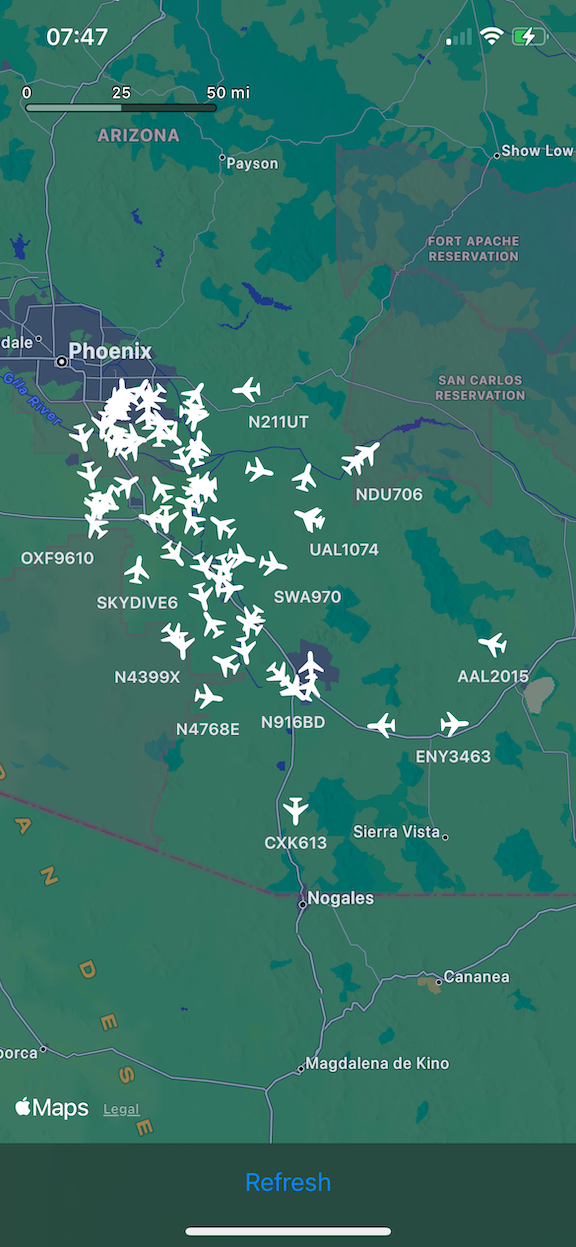
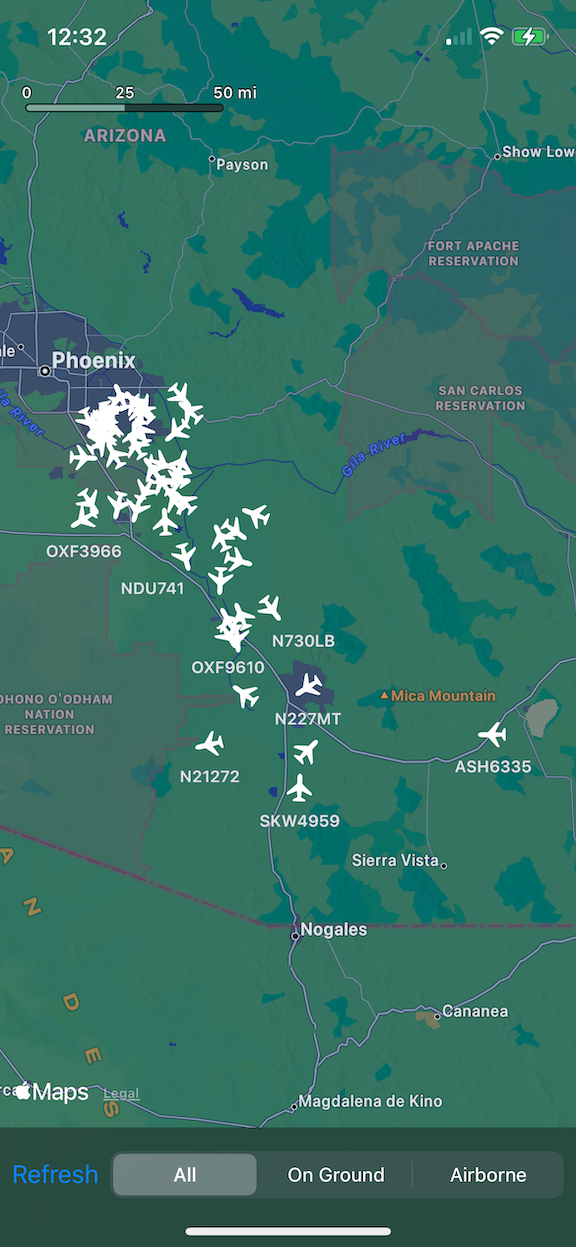
Added missing filter UI for StateVector airborne status.

diff --git a/OpenSkyFlightTracker/Views/MapView.swift b/OpenSkyFlightTracker/Views/MapView.swift
@@ -19,10 +19,6 @@ struct MapView: View {
     @State private var visibleRegion: MKCoordinateRegion?
     @State var viewModel: ViewModel
 
-    @State var localFilter: ViewModel.Filter = .all
-
-    private let filterOptions = ["All", "On the ground", "Airborne"]
-
     private let logger = Logger.logger(for: MapView.self)
 
     var body: some View {
@@ -79,15 +75,14 @@ struct MapView: View {
                         } label: {
                             Text("Track")
                         }
-                    }
-                    /*
-                    Picker("Filter Options", selection: $localFilter) {
-                        ForEach(0..<filterOptions.count, id: \.rawValue) { index in
-                            Text(filterOptions[index]).tag(index)
+                    } else {
+                        Picker("Filter Options", selection: $viewModel.filter) {
+                            Text("All").tag(ViewModel.Filter.all)
+                            Text("On Ground").tag(ViewModel.Filter.onGround)
+                            Text("Airborne").tag(ViewModel.Filter.airborne)
                         }
+                        .pickerStyle(.segmented)
                     }
-                    .pickerStyle(.segmented)
-                     */
                     Spacer()
                 }
             }

diff --git a/OpenSkyFlightTracker/ViewModels/ViewModel.swift b/OpenSkyFlightTracker/ViewModels/ViewModel.swift
@@ -18,7 +18,7 @@ import os.log
         case idle, loadingData, error(Error)
     }
 
-    enum Filter: Int, CaseIterable {
+    enum Filter: CaseIterable {
         case all, onGround, airborne
     }
 

diff --git a/README.md b/README.md
@@ -27,7 +27,7 @@ This program and its associated package make use of the following Apple framewor
 See the implementation of this program and its associated package for details.
 
 ## App Behavior and Usage
-When the app first starts up it will display flights in a 200 square kilometer region around the current location of the device. While the app is busy a generic activity indicator will be displayed in the center of the view. At the bottom you will notice a small overlay containing a `Refresh` button. You may tap this at any time in order to fetch updates from the network. New flights will be added, old ones will be removed, and existing filghts will be updated as regards position and altitude.
+When the app first starts up it will display flights in a 200 square kilometer region around the current location of the device. While the app is busy a generic activity indicator will be displayed in the center of the view. At the bottom you will notice a small overlay containing a `Refresh` button and segmented buttons that allow you to filter the flight display. You may tap the `Refresh` button at any time in order to fetch updates from the network. New flights will be added, old ones will be removed, and existing filghts will be updated as regards position and altitude. You can also apply an **Airborn** or **On Ground** status filter to the diplayed flights. The default state is for no filter to be applied, which is indicated by **All**.
 
 ![Initial view after app load](default_img.png)
 
@@ -47,7 +47,7 @@ In every view of the map, pinch/zoom is supported. I have not implemented [MapKi
 Currently errors are logged to the console. If something is wrong or does not seem to be working, check there.
 
 ## TODO
-* In the future, I'd like to add a filter for displaying flights that are on the ground versus in the air.
+* The `Refresh` and `Track` buttons should be mutually exclusive.
 * I need to fix the flight selection bug which requires a user to deselect the current flight by tapping the map background before selecting another flight to monitor or track.
 * Display any thrown errors to the user via popup.
 * I am considering the addition of [MapKit Annotation Clustering](https://developer.apple.com/documentation/mapkit/mkannotationview/decluttering_a_map_with_mapkit_annotation_clustering). But it is not really necessary for this sample app and I'm trying to avoid gold-plating.
